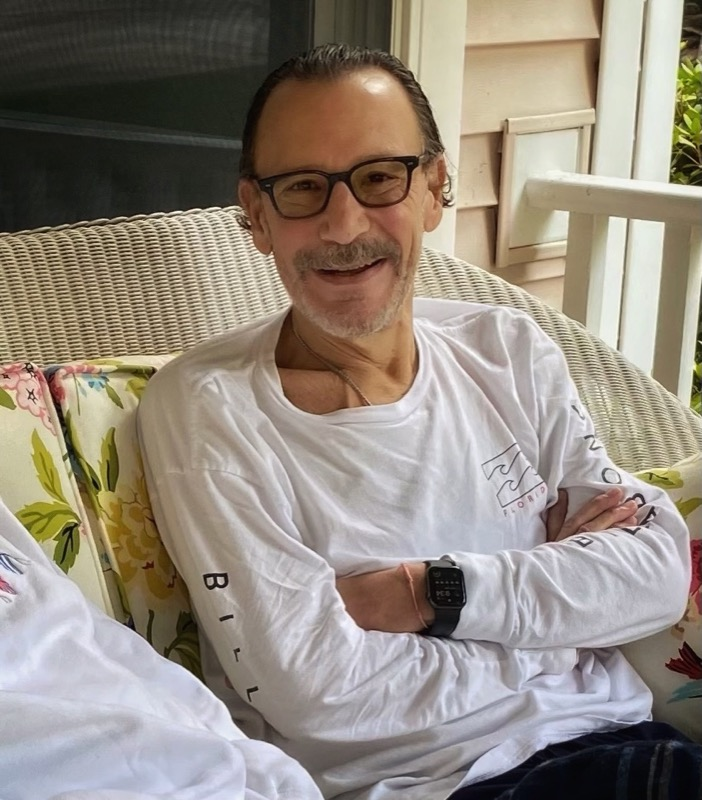
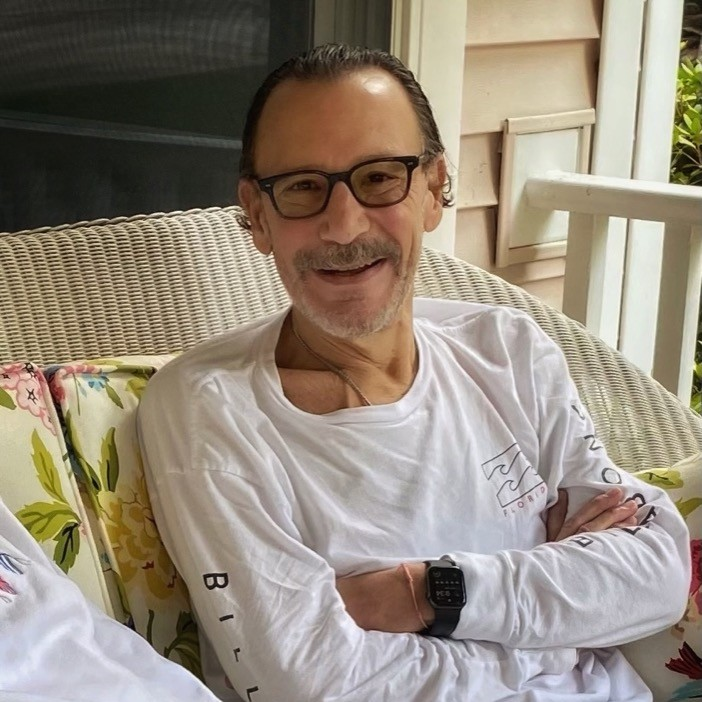
Fix hero portrait — pre-crop to square, center on face

diff --git a/style.css b/style.css
@@ -322,8 +322,7 @@ address { font-style: normal; }
   width: 100%;
   height: 100%;
   object-fit: cover;
-  object-position: center 15%;
-  filter: brightness(1.05);
+  object-position: center center;
 }
 
 .hero-name {
